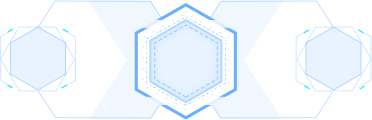
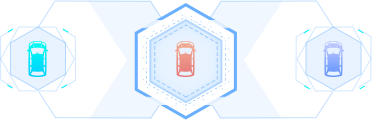
综合态势--车辆

Changed region(s): [[0.8575, 0.325, 0.9462, 0.65], [0.0591, 0.325, 0.1478, 0.65], [0.4731, 0.325, 0.5323, 0.65]]

diff --git a/src/components/comprehensive.vue b/src/components/comprehensive.vue
@@ -110,7 +110,21 @@
       <div slot="right">
         <sideItem title="车辆态势">
           <div class="car-status" slot="body">
-						
+						<img class="box-car" src="../assets/compre/bg-car.png" alt=""/>
+            <div class="detail">
+              <div class="item">
+								<span class="value">1202<i>辆</i></span>
+                <span class="text">驶入车辆数</span>
+              </div>
+              <div class="item">
+								<span class="value">1202<i>辆</i></span>
+                <span class="text">超速车辆数</span>
+              </div>
+              <div class="item">
+								<span class="value">7<i>辆</i></span>
+                <span class="text">驶出车辆数</span>
+              </div>
+            </div>
 					</div>
         </sideItem>
         <sideItem title="学生实时分布" transitionType="right" delay="1500">
@@ -712,6 +726,43 @@ span {
 		width: 360px;
 		height: 200px;
 	}
+}
+.car-status{
+  padding: 0 16px;
+  .box-car{
+    margin-top: 10px;
+    width: 100%;
+  }
+  .detail{
+    margin-top: 5px;
+    width: 100%;
+    display: flex;
+    justify-content: space-between;
+    align-items: center;
+    .item{
+      height: 34px;
+      display: flex;
+      flex-direction: column;
+      justify-content: space-between;
+      align-items: center;
+      .value{
+        font-size: 16px;
+        font-weight: bold;
+        color: #00F5FF;
+        i{
+          margin-left: 2px;
+          font-size: 12px;
+          font-weight: 400;
+          color: rgba(255, 255, 255, 0.4);
+        }
+      }
+      .text{
+        font-size: 14px;
+        font-weight: 400;
+        color: rgba(255, 255, 255, 0.8);
+      }
+    }
+  }
 }
 
 .studentdistribution {

diff --git a/src/App.vue b/src/App.vue
@@ -37,6 +37,7 @@ body {
   width: 100%;
   height:100%;
   user-select: none;
+  background:RGBA(18, 35, 63, 0.8);
 }
 .v-modal{
   z-index: 9 !important;
